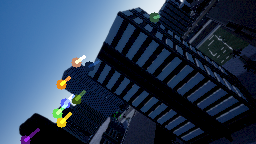
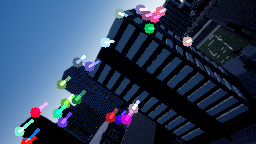
lower quality level, loop

diff --git a/vision/optical_flow.py b/vision/optical_flow.py
@@ -3,7 +3,7 @@ import numpy as np
 
 # params for ShiTomasi corner detection
 feature_params = dict( maxCorners = 100,
-                       qualityLevel = 0.3,
+                       qualityLevel = 0.02,
                        minDistance = 7,
                        blockSize = 7 )
 
@@ -12,31 +12,36 @@ lk_params = dict( winSize  = (15,15),
                   maxLevel = 2,
                   criteria = (cv.TERM_CRITERIA_EPS | cv.TERM_CRITERIA_COUNT, 10, 0.03))
 
-# first frame (make it gray)
-img = cv.imread("../images/img0.png", cv.IMREAD_COLOR)
-img_gray = cv.cvtColor(img, cv.COLOR_BGR2GRAY)
+i = 0
+while i <= 6:
 
-img_next = cv.imread('../images/img1.png', cv.IMREAD_COLOR)
-img_next_gray = cv.cvtColor(img_next, cv.COLOR_BGR2GRAY)
+  # first frame (make it gray)
+  img = cv.imread("../images/img" + str(i) + ".png", cv.IMREAD_COLOR)
+  img_gray = cv.cvtColor(img, cv.COLOR_BGR2GRAY)
 
-p0 = cv.goodFeaturesToTrack(img_gray, mask = None, **feature_params)
+  img_next = cv.imread("../images/img" + str(i+1) + ".png", cv.IMREAD_COLOR)
+  img_next_gray = cv.cvtColor(img_next, cv.COLOR_BGR2GRAY)
 
-p1, st, err = cv.calcOpticalFlowPyrLK(img_gray, img_next_gray, p0, None, **lk_params)
-print('p0', p0)
-print('p1', p1)
-flow = p1 - p0
-print('velocity', flow)
+  p0 = cv.goodFeaturesToTrack(img_gray, mask = None, **feature_params)
 
-# Create a mask image for drawing purposes
-mask = np.zeros_like(img)
+  p1, st, err = cv.calcOpticalFlowPyrLK(img_gray, img_next_gray, p0, None, **lk_params)
+  print('p0', p0)
+  print('p1', p1)
+  flow = p1 - p0
+  print('velocity', flow)
 
-color = np.random.randint(0,255,(100,3))
-for i,(new,old) in enumerate(zip(p1,p0)):
-  a,b = new.ravel()
-  c,d = old.ravel()
-  mask = cv.line(mask, (a,b),(c,d), color[i].tolist(), 2)
-  img_next = cv.circle(img_next,(a,b),5,color[i].tolist(),-1)
+  # Create a mask image for drawing purposes
+  mask = np.zeros_like(img)
 
-img_next_flow = cv.add(img_next,mask)
+  color = np.random.randint(0,255,(100,3))
+  for i,(new,old) in enumerate(zip(p1,p0)):
+    a,b = new.ravel()
+    c,d = old.ravel()
+    mask = cv.line(mask, (a,b),(c,d), color[i].tolist(), 2)
+    img_next = cv.circle(img_next,(a,b),5,color[i].tolist(),-1)
 
-cv.imwrite('../images/img1_flow.png',img_next_flow)
+  img_next_flow = cv.add(img_next,mask)
+
+  cv.imwrite('../images/img' + str(i+1) + '_flow.png',img_next_flow)
+
+  i+=1
